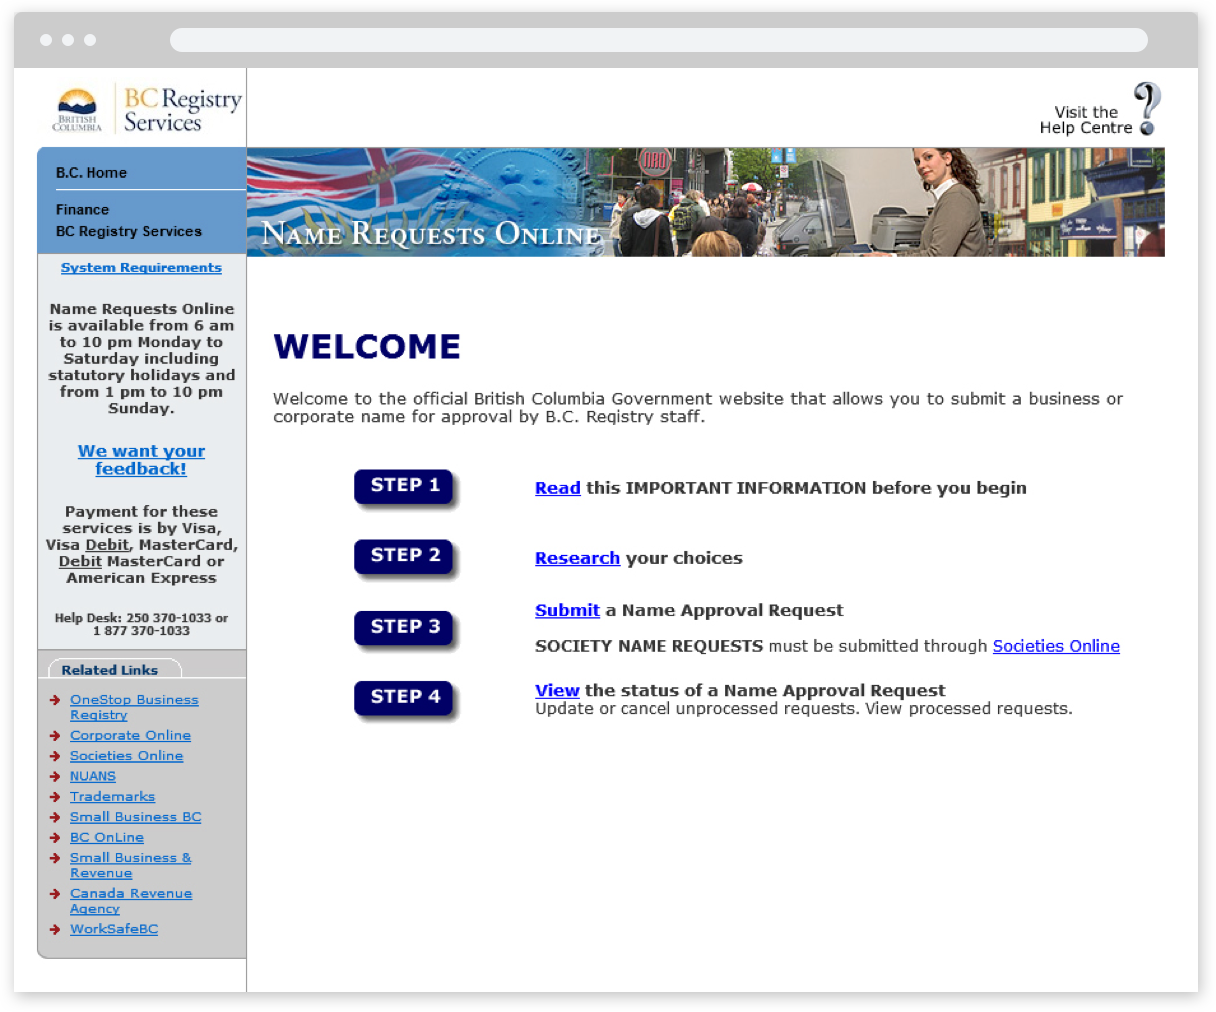
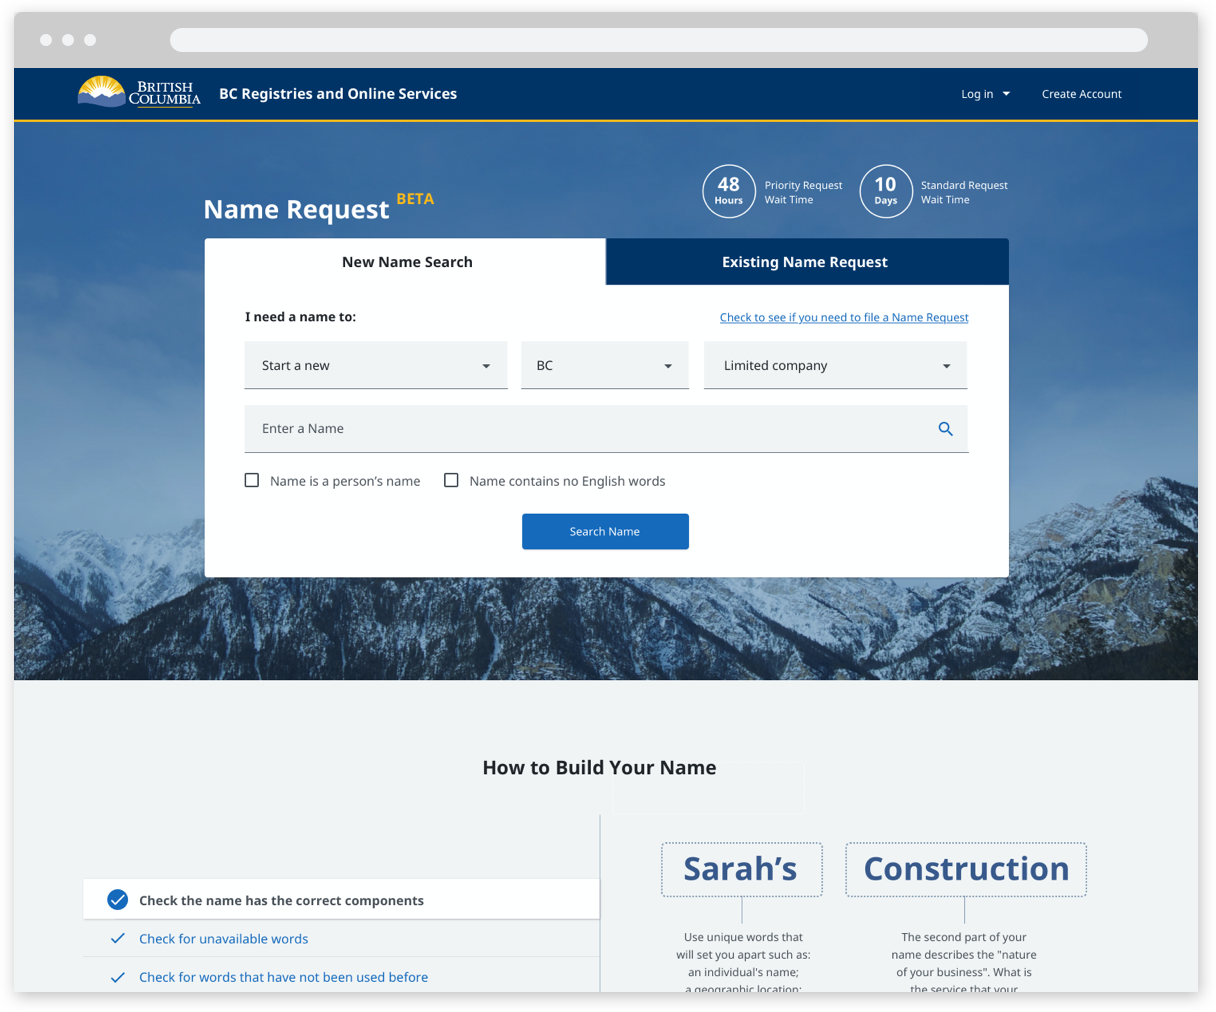
misc updates for Name Request (#1151)
* - updated step 2 NR image

* - added config key for new Name Request URL
- updated Name Request Button to use new/old URL according to FF
- updated Request Name View to use new/old URLs according to FF
- updated session vars in unit tests (for possible future use)

* - added entries to mock to increase code coverage

diff --git a/auth-web/src/views/auth/home/RequestNameView.vue b/auth-web/src/views/auth/home/RequestNameView.vue
@@ -25,7 +25,7 @@
         <div class="request-name-info-btns mt-5">
           <name-request-button />
           <p class="mt-5">Have an existing Name Request?
-            <a :href="nameRequestStatusUrl"
+            <a :href="nameRequestExistingUrl"
               target="_blank" rel="noopener noreferrer" class="status-link">
               Check your Name Request Status
             </a>
@@ -37,7 +37,7 @@
       </v-col>
       <!-- Image Column -->
       <v-col cols="12" md="6">
-        <a :href="nroUrl" target="_blank">
+        <a :href="nameRequestUrl" target="_blank">
           <v-img src="../../../assets/img/Step2_NameRequest_x2.png" aspect-ratio="1.2" contain></v-img>
         </a>
       </v-col>
@@ -48,6 +48,8 @@
 <script lang="ts">
 import { Component, Vue } from 'vue-property-decorator'
 import ConfigHelper from '@/util/config-helper'
+import { LDFlags } from '@/util/constants'
+import LaunchDarklyService from 'sbc-common-components/src/services/launchdarkly.services'
 import LearnMoreButton from '@/components/auth/common/LearnMoreButton.vue'
 import NameRequestButton from '@/components/auth/home/NameRequestButton.vue'
 import NumberedCompanyTooltip from '@/components/auth/common/NumberedCompanyTooltip.vue'
@@ -60,7 +62,6 @@ import NumberedCompanyTooltip from '@/components/auth/common/NumberedCompanyTool
   }
 })
 export default class RequestNameView extends Vue {
-  private readonly nroUrl = ConfigHelper.getNroUrl()
   private readonly learnMoreUrl = 'https://www2.gov.bc.ca/gov/content/employment-business/business/managing-a-business/permits-licences/businesses-incorporated-companies/approval-business-name'
   private bulletPoints: Array<any> = [
     { text: 'Create a unique name that ensures the public is not confused or misled by similar corporate names.' },
@@ -68,8 +69,16 @@ export default class RequestNameView extends Vue {
     { text: 'If your name is approved, you can use it to incorporate or register your business.' }
   ]
 
-  private get nameRequestStatusUrl () {
-    return `${this.nroUrl}nro.htm?_flowId=anonymous-monitor-flow&_flowExecutionKey=e1s1`
+  private get nameRequestExistingUrl () {
+    return LaunchDarklyService.getFlag(LDFlags.LinkToNewNameRequestApp)
+      ? `${ConfigHelper.getNameRequestUrl()}existing`
+      : `${ConfigHelper.getNroUrl()}nro.htm?_flowId=anonymous-monitor-flow&_flowExecutionKey=e1s1`
+  }
+
+  private get nameRequestUrl (): string {
+    return LaunchDarklyService.getFlag(LDFlags.LinkToNewNameRequestApp)
+      ? ConfigHelper.getNameRequestUrl()
+      : ConfigHelper.getNroUrl()
   }
 }
 </script>

diff --git a/auth-web/src/components/auth/home/NameRequestButton.vue b/auth-web/src/components/auth/home/NameRequestButton.vue
@@ -6,7 +6,7 @@
     rel="noopener noreferrer"
     class="btn-name-request white--text"
     :class="{'btn-name-request-wide': isWide}"
-    :href="nroUrl">
+    :href="nameRequestUrl">
     <span class="btn-text">Request a Name</span>
   </v-btn>
 </template>
@@ -14,11 +14,18 @@
 <script lang="ts">
 import { Component, Prop, Vue } from 'vue-property-decorator'
 import ConfigHelper from '@/util/config-helper'
+import { LDFlags } from '@/util/constants'
+import LaunchDarklyService from 'sbc-common-components/src/services/launchdarkly.services'
 
 @Component({})
 export default class NameRequestButton extends Vue {
-  private nroUrl = ConfigHelper.getNroUrl()
   @Prop() isWide: boolean
+
+  private get nameRequestUrl (): string {
+    return LaunchDarklyService.getFlag(LDFlags.LinkToNewNameRequestApp)
+      ? ConfigHelper.getNameRequestUrl()
+      : ConfigHelper.getNroUrl()
+  }
 }
 </script>
 

diff --git a/auth-web/tests/unit/util/config-helper.spec.ts b/auth-web/tests/unit/util/config-helper.spec.ts
@@ -4,7 +4,9 @@ import ConfigHelper from '@/util/config-helper'
 var mockob = {
   'VUE_APP_COPS_REDIRECT_URL': 'https://coops-dev.pathfinder.gov.bc.ca/',
   'VUE_APP_PAY_ROOT_API': 'https://pay-api-dev.pathfinder.gov.bc.ca/api/v1',
-  'VUE_APP_AUTH_ROOT_API': 'https://auth-api-dev.pathfinder.gov.bc.ca/api/v1'
+  'VUE_APP_AUTH_ROOT_API': 'https://auth-api-dev.pathfinder.gov.bc.ca/api/v1',
+  'NRO_URL': 'https://dev.bcregistrynames.gov.bc.ca/nro/',
+  'NAME_REQUEST_URL': 'https://dev.bcregistry.ca/namerequest/'
 }
 
 jest.mock('axios', () => ({

diff --git a/auth-web/src/util/constants.ts b/auth-web/src/util/constants.ts
@@ -143,7 +143,8 @@ export enum Permission {
 
 export enum LDFlags {
     AuthLearnMore = 'auth-options-learn-more',
-    PaymentTypeAccountCreation = 'payment-type-in-account-creation'
+    PaymentTypeAccountCreation = 'payment-type-in-account-creation',
+    LinkToNewNameRequestApp ='link-to-new-name-request-app'
 }
 
 export enum DateFilterCodes {

diff --git a/auth-web/src/util/config-helper.ts b/auth-web/src/util/config-helper.ts
@@ -78,6 +78,10 @@ export default class ConfigHelper {
     return ConfigHelper.getValue('NRO_URL')
   }
 
+  static getNameRequestUrl () {
+    return ConfigHelper.getValue('NAME_REQUEST_URL')
+  }
+
   static getValue (key: String) {
     // @ts-ignore
     return JSON.parse(sessionStorage.getItem(SessionStorageKeys.ApiConfigKey))[key]

diff --git a/auth-web/tests/unit/views/AccountFreezeUnlockView.spec.ts b/auth-web/tests/unit/views/AccountFreezeUnlockView.spec.ts
@@ -14,7 +14,8 @@ const vuetify = new Vuetify({})
 document.body.setAttribute('data-app', 'true')
 
 const mockSession = {
-  'NRO_URL': 'Mock Url'
+  'NRO_URL': 'Mock NRO URL',
+  'NAME_REQUEST_URL': 'Mock Name Request URL'
 }
 
 describe('AccountFreezeUnlockView.vue', () => {

diff --git a/auth-web/tests/unit/views/AccountFreezeView.spec.ts b/auth-web/tests/unit/views/AccountFreezeView.spec.ts
@@ -14,7 +14,8 @@ const vuetify = new Vuetify({})
 document.body.setAttribute('data-app', 'true')
 
 const mockSession = {
-  'NRO_URL': 'Mock Url'
+  'NRO_URL': 'Mock NRO URL',
+  'NAME_REQUEST_URL': 'Mock Name Request URL'
 }
 
 describe('AccountFreezeView.vue', () => {

diff --git a/auth-web/tests/unit/views/RequestNameView.spec.ts b/auth-web/tests/unit/views/RequestNameView.spec.ts
@@ -13,7 +13,8 @@ const vuetify = new Vuetify({})
 document.body.setAttribute('data-app', 'true')
 
 const mockSession = {
-  'NRO_URL': 'Mock Url'
+  'NRO_URL': 'Mock NRO URL',
+  'NAME_REQUEST_URL': 'Mock Name Request URL'
 }
 
 describe('RequestNameView.vue', () => {

diff --git a/auth-web/tests/unit/views/HomeView.spec.ts b/auth-web/tests/unit/views/HomeView.spec.ts
@@ -17,7 +17,8 @@ const vuetify = new Vuetify({})
 document.body.setAttribute('data-app', 'true')
 
 const mockSession = {
-  'NRO_URL': 'Mock Url'
+  'NRO_URL': 'Mock NRO URL',
+  'NAME_REQUEST_URL': 'Mock Name Request URL'
 }
 
 describe('HomeView.vue', () => {
